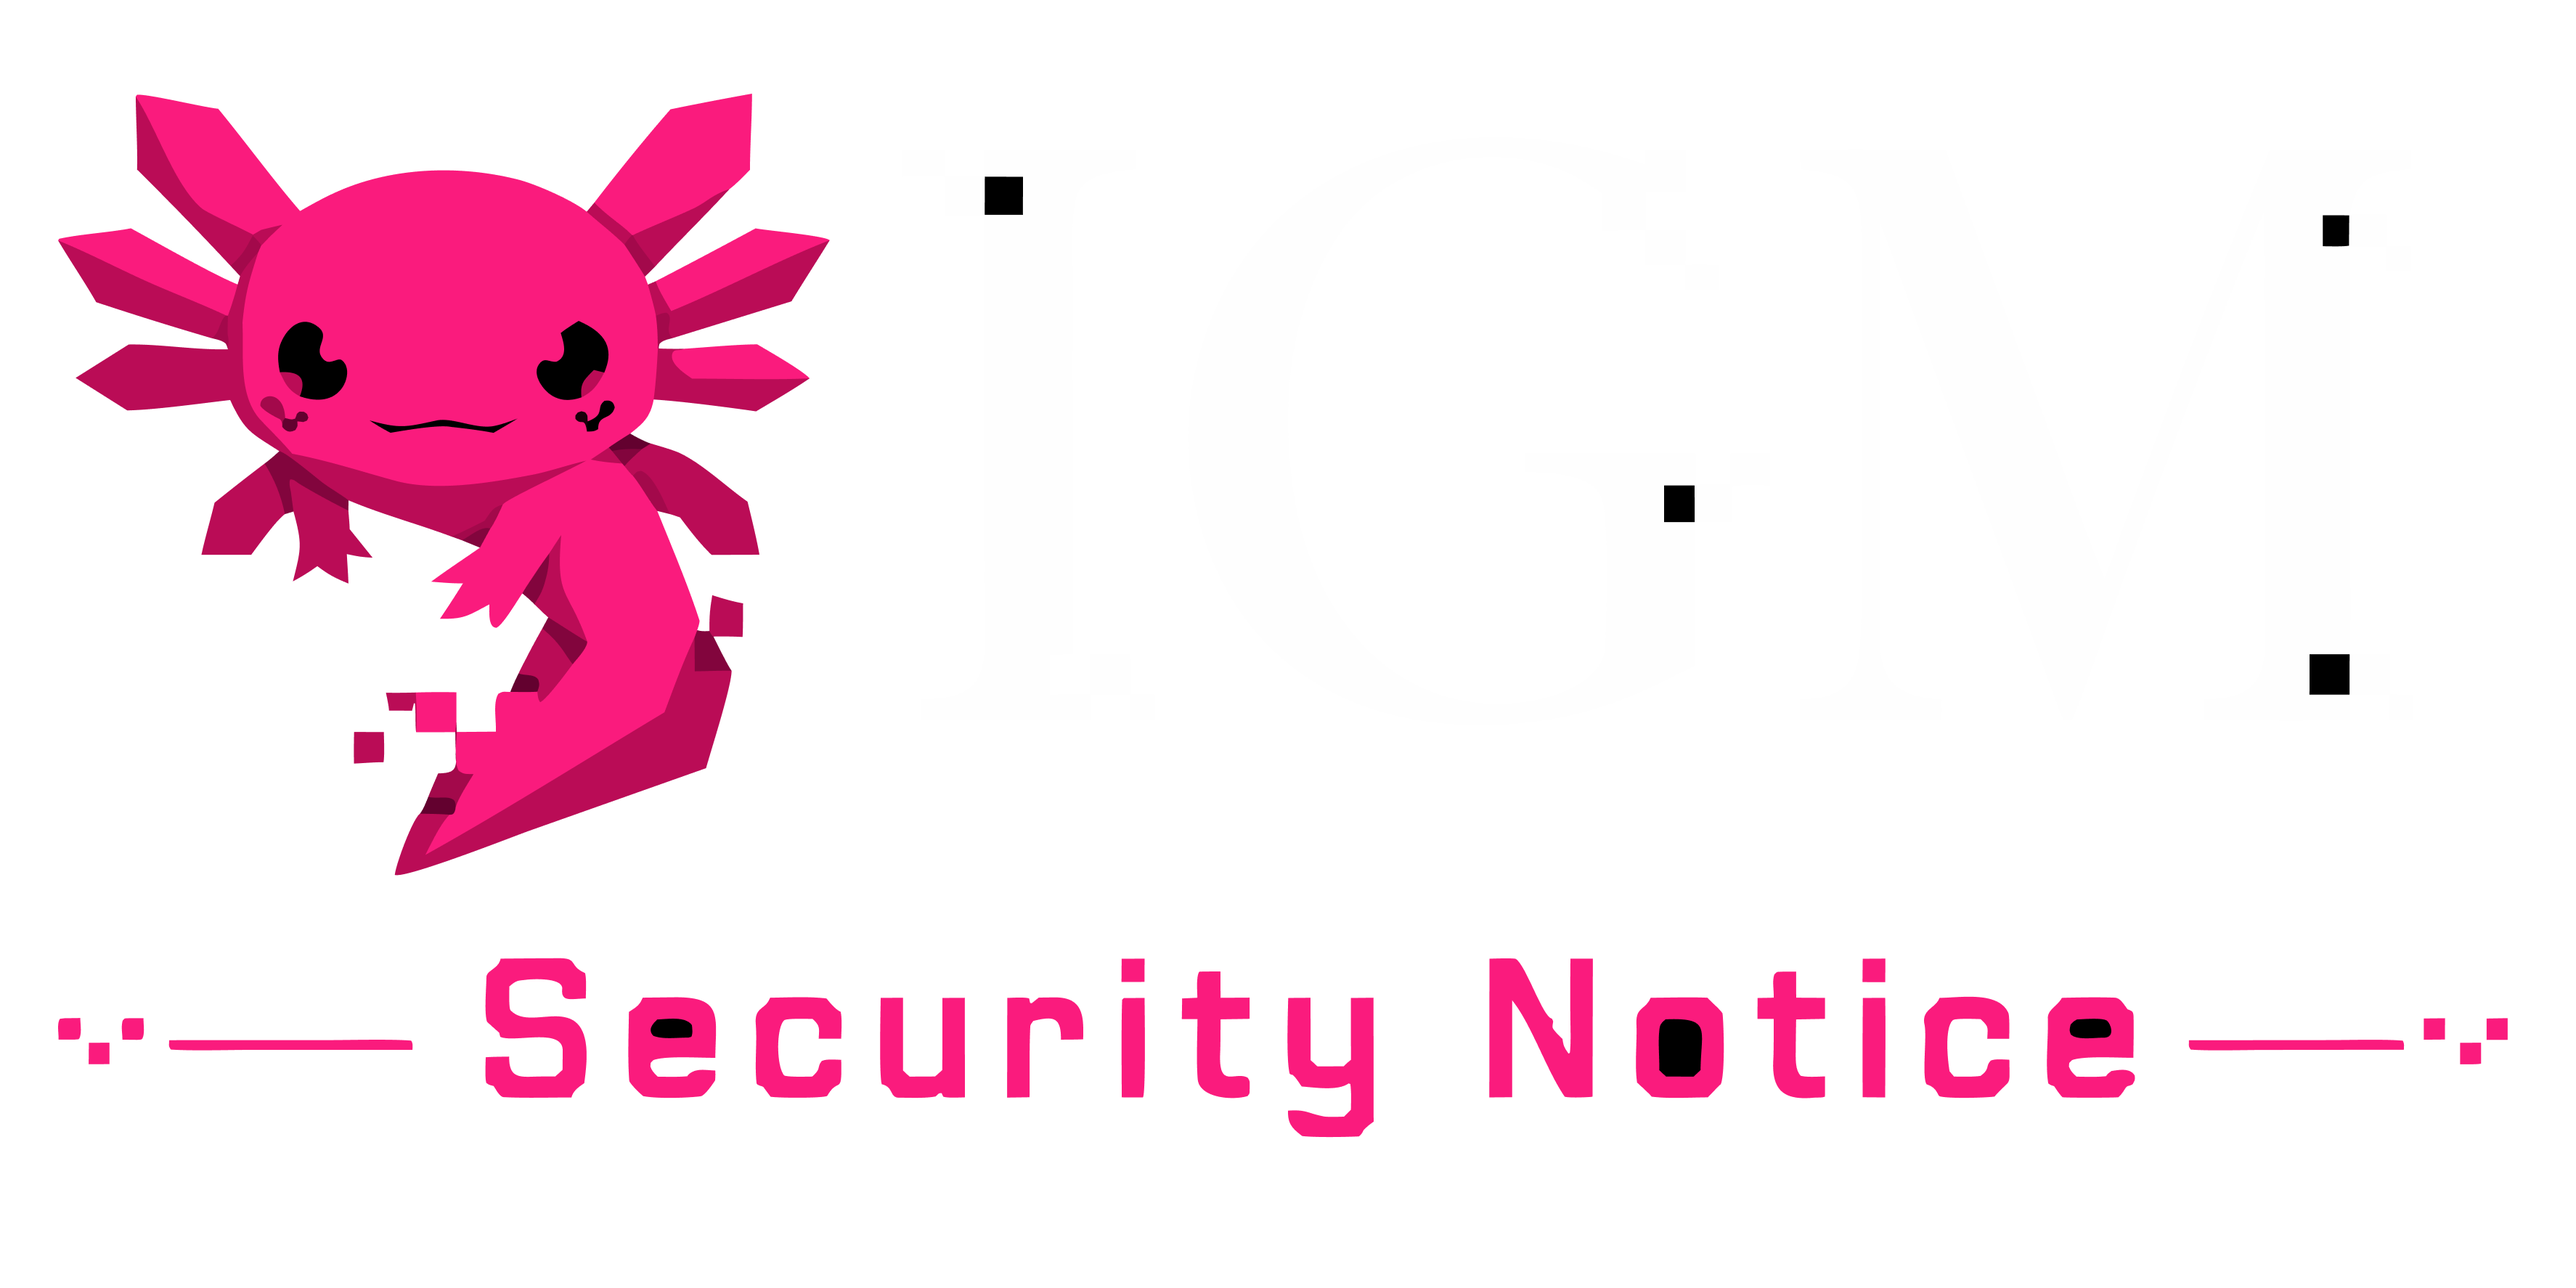
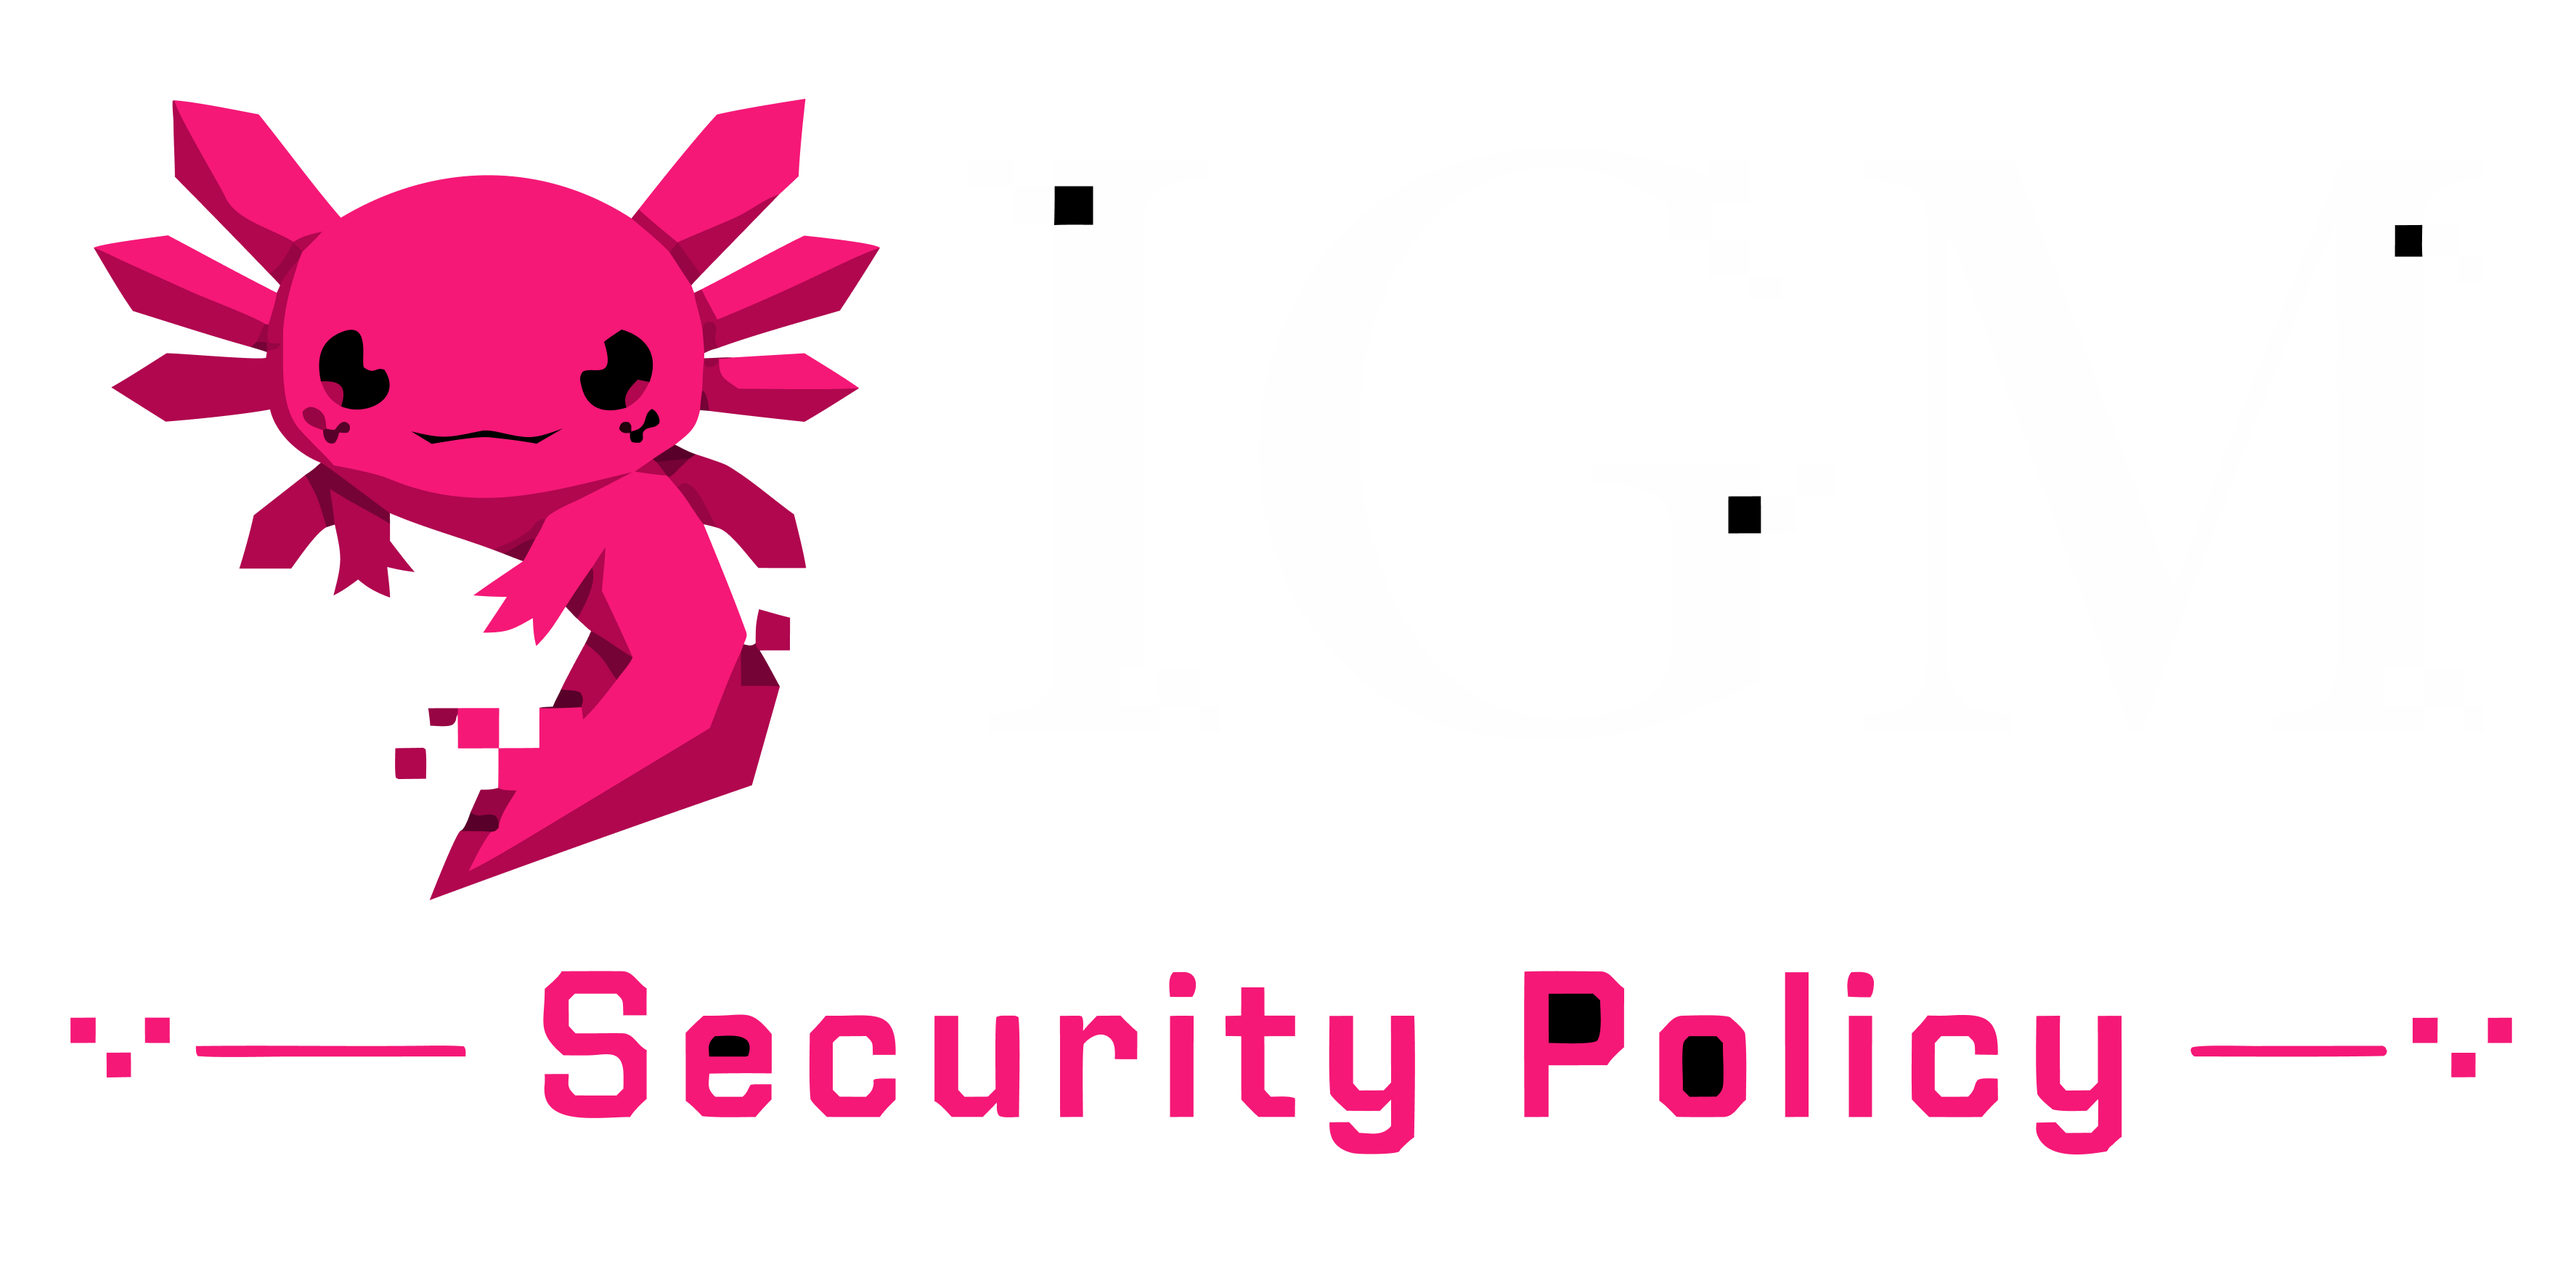
docs: move community files to root

diff --git a/CONTRIBUTING.md b/CONTRIBUTING.md
@@ -1,5 +1,5 @@
 <div align="center">
-  <img src="../../assets/IGM_Contribution_Banner.png" alt="Contribution Banner" width="500" />
+  <img src="assets/IGM_Contribution_Banner.png" alt="Contribution Banner" width="500" />
 </div>
 
 # Contributing to IGM
@@ -54,11 +54,11 @@ gitGraph
 
 If you are contributing code, please refer to our comprehensive Developer Documentation in the `docs/` folder:
 
-*   [**Architecture Overview**](../README.md) - Start here to understand the high-level design.
-*   [**CLI Reference**](../cli.md) - Guide to `yargs` setup and command registration.
-*   [**Core Engine**](../core.md) - The HTTP client, TLS impersonation, and anti-detection systems.
-*   [**Domain Modules**](../modules.md) - Business logic (Identity, Timeline, Messaging, etc.).
-*   [**IDMU Automation**](../automation.md) - The headless browser automation subsystem.
+*   [**Architecture Overview**](docs/README.md) - Start here to understand the high-level design.
+*   [**CLI Reference**](docs/cli.md) - Guide to `yargs` setup and command registration.
+*   [**Core Engine**](docs/core.md) - The HTTP client, TLS impersonation, and anti-detection systems.
+*   [**Domain Modules**](docs/modules.md) - Business logic (Identity, Timeline, Messaging, etc.).
+*   [**IDMU Automation**](docs/automation.md) - The headless browser automation subsystem.
 
 ## Local Development Setup
 

diff --git a/docs/README.md b/docs/README.md
@@ -159,10 +159,10 @@ This index maps every source file to its documentation section for rapid navigat
 
 ## Community & Contributing
 
-- [**Contributing Guidelines**](project/CONTRIBUTING.md): Learn how to report bugs, suggest features, and submit pull requests.
-- [**Code of Conduct**](project/CODE_OF_CONDUCT.md): Our pledge to maintain a welcoming, inclusive, and harassment-free community.
-- [**Security Policy**](project/SECURITY.md): Instructions for reporting vulnerabilities safely.
-- [**Changelog**](project/CHANGELOG.md): History of all notable changes to the project.
+- [**Contributing Guidelines**](../CONTRIBUTING.md): Learn how to report bugs, suggest features, and submit pull requests.
+- [**Code of Conduct**](../CODE_OF_CONDUCT.md): Our pledge to maintain a welcoming, inclusive, and harassment-free community.
+- [**Security Policy**](../SECURITY.md): Instructions for reporting vulnerabilities safely.
+- [**Changelog**](CHANGELOG.md): History of all notable changes to the project.
 
 For general questions, business inquiries, or private reports, please contact the maintainer at **step-wizard-spill@duck.com**.
 
@@ -180,7 +180,7 @@ Thanks to everyone who has contributed to IGM!
 
 ## License
 
-This project is licensed under the [ISC License](project/LICENSE).
+This project is licensed under the [ISC License](../LICENSE).
 
 ---
 

diff --git a/CODE_OF_CONDUCT.md b/CODE_OF_CONDUCT.md
@@ -1,5 +1,5 @@
 <div align="center">
-  <img src="../../assets/IGM_CoC_Banner.png" alt="Code of Conduct Banner" width="500" />
+  <img src="assets/IGM_CoC_Banner.png" alt="Code of Conduct Banner" width="500" />
 </div>
 
 # Contributor Covenant Code of Conduct

diff --git a/SECURITY.md b/SECURITY.md
@@ -1,5 +1,5 @@
 <div align="center">
-  <img src="../../assets/IGM_Security_Banner.png" alt="Security Banner" width="500" />
+  <img src="assets/IGM_Security_Banner.png" alt="Security Banner" width="500" />
 </div>
 
 # Security Policy
